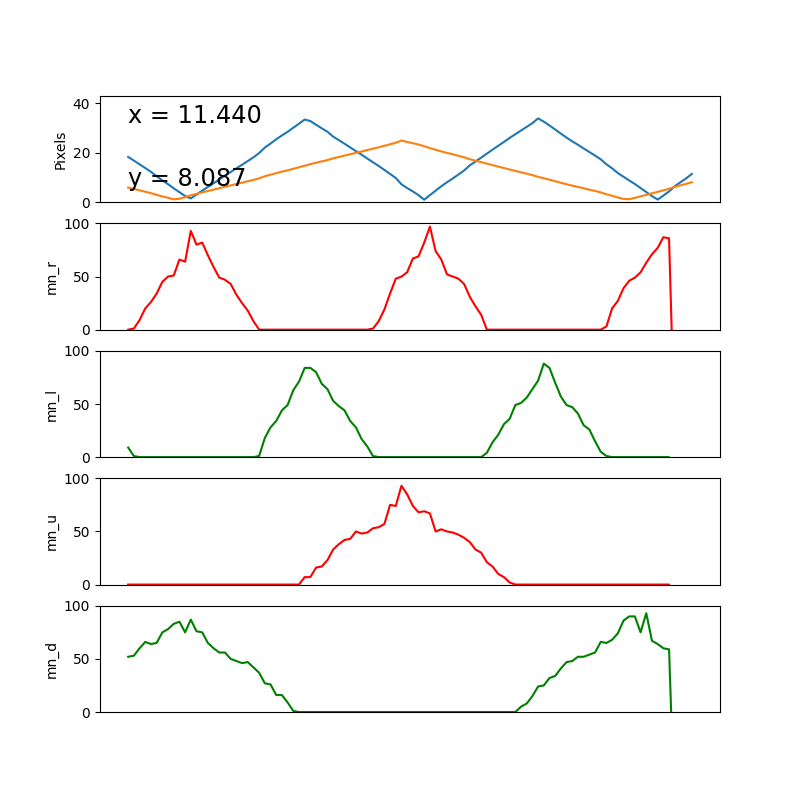
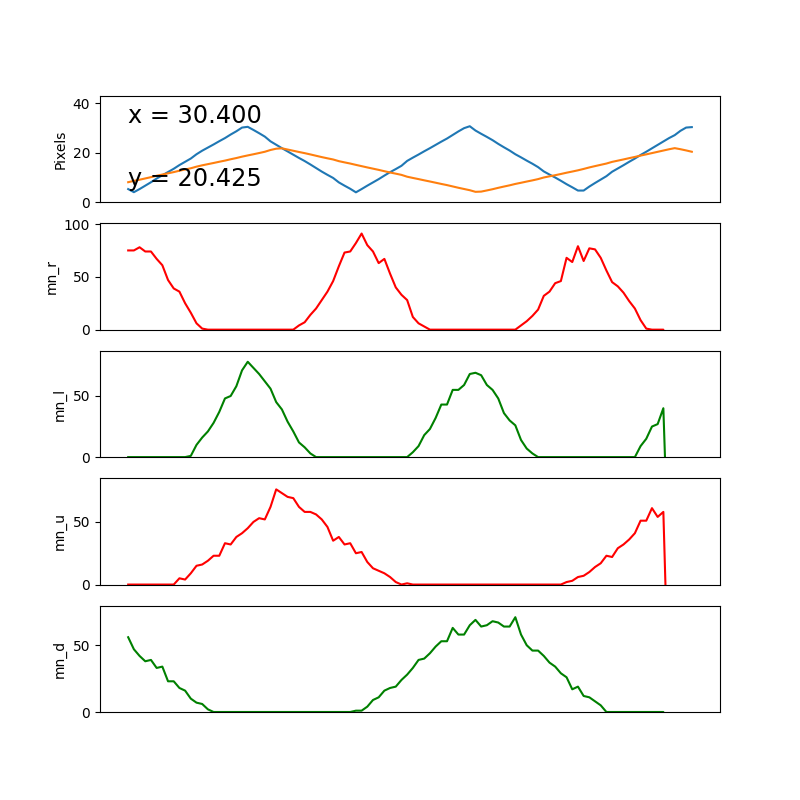
Fixing y axis in oscilloscope

diff --git a/experiments/closed_loop/debug_online_vor.py b/experiments/closed_loop/debug_online_vor.py
@@ -74,7 +74,7 @@ time.sleep(3)
 # input("Press Enter")
 
 # Weight of connections between "layers"
-WEIGHT = 0.5
+WEIGHT = 0.1
 
 
 
@@ -117,7 +117,7 @@ def receive_spikes_from_sim(label, time, neuron_ids):
 This function creates a list of weights to be used when connecting pixels to motor neurons
 '''
 def create_conn_list(w, h, n=0):
-    w_fovea = 0.5
+    w_fovea = 1
     conn_list = []
     
 
@@ -422,7 +422,7 @@ def set_inputs():
     dt = 1 #ms
     l = WIDTH
     w = HEIGHT
-    r = min(8, int(WIDTH*7/637+610/637))
+    r = 4+0*min(8, int(WIDTH*7/637+610/637))
     cx = r
     cy = r
     vx = -WIDTH/600
@@ -598,28 +598,28 @@ def rt_plot(i, fig, axs, t, x, y, mn_r, mn_l, mn_u, mn_d, obj_xy, spike_count):
     axs[1].text(t[0], 0.75*max_y, txt_r, fontsize='xx-large')
     axs[1].xaxis.set_visible(False)
     axs[1].set_ylabel('mn_r')
-    axs[1].set_ylim([0,max_y])
+    axs[1].set_ylim(bottom = 0)
 
     axs[2].clear()
     axs[2].plot(t, mn_l, color='g')
     axs[2].text(t[0], 0.75*max_y, txt_l, fontsize='xx-large')
     axs[2].xaxis.set_visible(False)
     axs[2].set_ylabel('mn_l')
-    axs[2].set_ylim([0,max_y])
+    axs[2].set_ylim(bottom = 0)
 
     axs[3].clear()
     axs[3].plot(t, mn_u, color='r')
     axs[3].text(t[0], 0.75*max_y, txt_u, fontsize='xx-large')
     axs[3].xaxis.set_visible(False)
     axs[3].set_ylabel('mn_u')
-    axs[3].set_ylim([0,max_y])
+    axs[3].set_ylim(bottom = 0)
 
     axs[4].clear()
     axs[4].plot(t, mn_d, color='g')
     axs[4].text(t[0], 0.75*max_y, txt_d, fontsize='xx-large')
     axs[4].xaxis.set_visible(False)
     axs[4].set_ylabel('mn_d')
-    axs[4].set_ylim([0,max_y])
+    axs[4].set_ylim(bottom = 0)
 
 
     if end_of_sim.value == 1:
